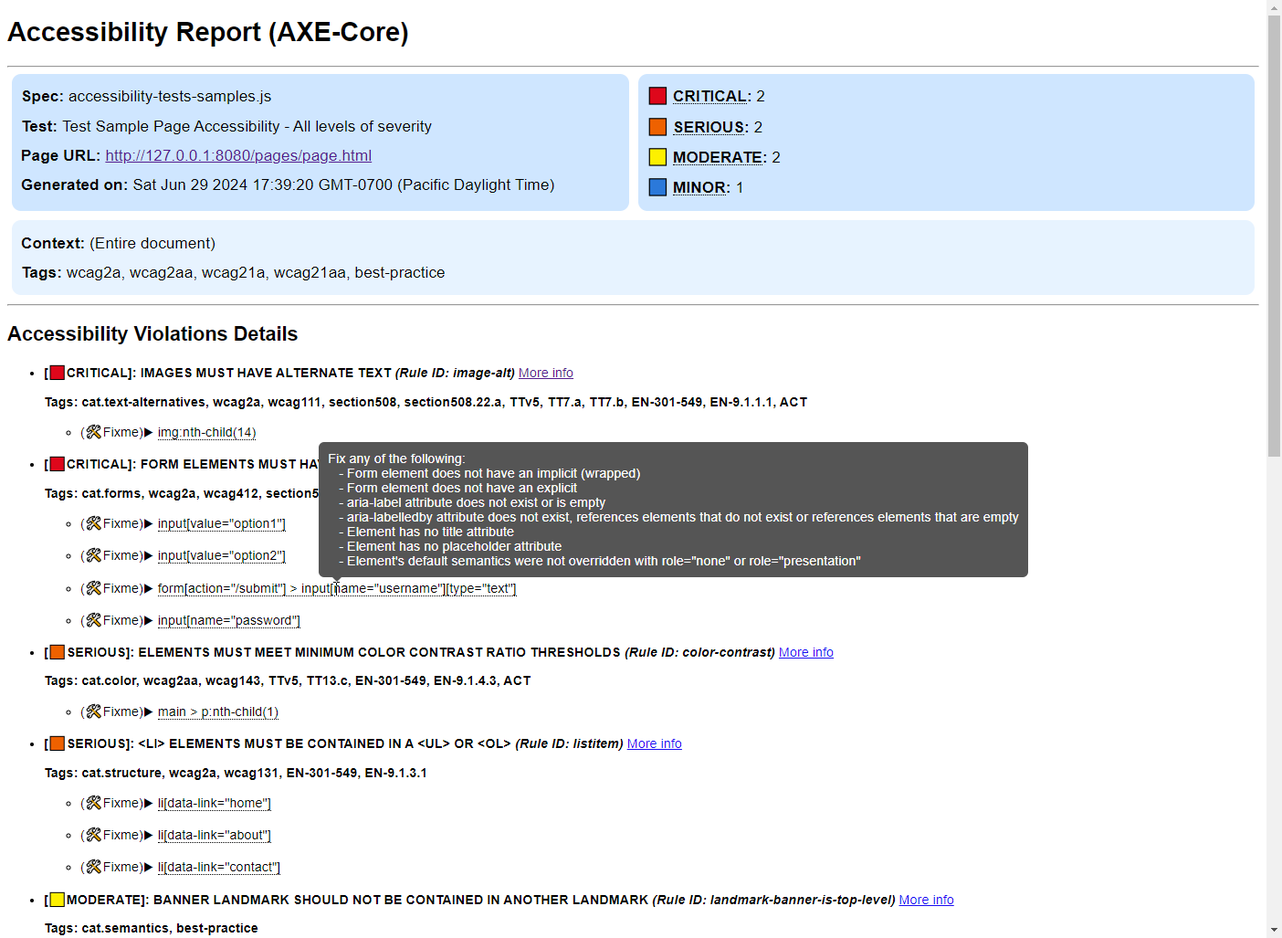
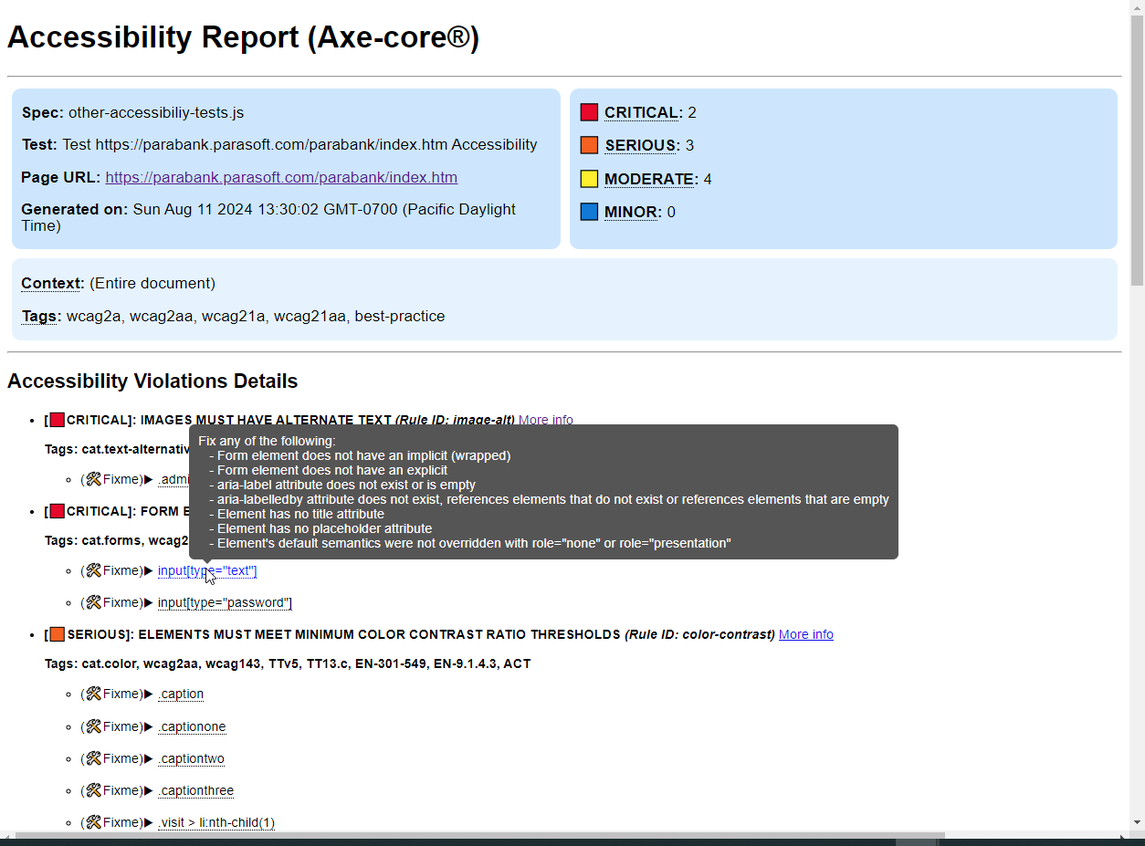
Fix issue accessibilityFolder and axe-core trademark
- Fix issue with `accessibilityFolder` cofiguration parameter when missing char `/` at the end
- Add axe-core® to the sorce code and documentation to be compliant with Deque trademark
- Created `.gitignore`

diff --git a/src/accessibility-commands.js b/src/accessibility-commands.js
@@ -23,12 +23,12 @@ const defaultOptions = {
  * For more details regarding parameters and options refer to https://www.deque.com/axe/core-documentation/api-documentation/, https://github.com/dequelabs/axe-core and https://www.npmjs.com/package/cypress-axe.
  * @public
  * 
- * @param {string | Element | NodeList | Object} [context] - (optional) AXE-CORE plugin parameter - Defines the scope of the analysis - the part of the DOM that you would like to analyze. This will typically be a CSS Selector, and DOM Element such as returned by document.getElementById("content"), a NodeList such as returned by document.querySelectorAll, or an Object. By default the analysis will be done for the full document.
- * @param {Object} [context.exclude] - (optional) AXE-CORE plugin option - An object with exclude properties to specify elements that should not be tested. E.g. { exclude: ['button'] }.
- * @param {Object} [context.include] - (optional) AXE-CORE plugin option - An object with include properties to specify elements that should be tested. E.g. { include: ['button'] }.
- * @param {Object} [context.fromFrames] - (optional) AXE-CORE plugin option - An object with a fromFrames property to specify frames that should be tested.
- * @param {Object} [context.fromShadowDom] - (optional) AXE-CORE plugin option - An object with a fromShadowDom property to specify shadow DOM elements that should be tested.
- * @param {Object} [options] - (optional) AXE-CORE plugin parameter - Object with options to configure the accessibility check.
+ * @param {string | Element | NodeList | Object} [context] - (optional) Axe-core® plugin parameter - Defines the scope of the analysis - the part of the DOM that you would like to analyze. This will typically be a CSS Selector, and DOM Element such as returned by document.getElementById("content"), a NodeList such as returned by document.querySelectorAll, or an Object. By default the analysis will be done for the full document.
+ * @param {Object} [context.exclude] - (optional) Axe-core® plugin option - An object with exclude properties to specify elements that should not be tested. E.g. { exclude: ['button'] }.
+ * @param {Object} [context.include] - (optional) Axe-core® plugin option - An object with include properties to specify elements that should be tested. E.g. { include: ['button'] }.
+ * @param {Object} [context.fromFrames] - (optional) Axe-core® plugin option - An object with a fromFrames property to specify frames that should be tested.
+ * @param {Object} [context.fromShadowDom] - (optional) Axe-core® plugin option - An object with a fromShadowDom property to specify shadow DOM elements that should be tested.
+ * @param {Object} [options] - (optional) Axe-core® plugin parameter - Object with options to configure the accessibility check.
  * @param {boolean} [options.generateReport=true] - (optional) WICK-A11Y plugin option - Whether to generate a report for accessibility violations. By default true.
  * @param {object} [options.impactStyling] - (optional) WICK-A11Y plugin option - An object with an entry for each impact level you would like to override the plugin defaults ('critical', 'serious', 'moderate', 'minor'). Each impact level entry may have two properties: 'icon', which specifies the icon to use for that type of violation in the Cypress runner, and 'style', which specifies the CSS style to apply to the HTML element bounding box showing the violation on the page. The styles passed in this option will override the default ones used by the plugin.
  *        Default styles:
@@ -42,20 +42,20 @@ const defaultOptions = {
  * @param {string[]} [options.includedImpacts=['critical', 'serious']] - (optional) CYPRESS-AXE plugin option - Violations to include in the accessibility analysis. Map to impact levels in violations, where possible impact values are "minor", "moderate", "serious", or "critical". By default { includedImpacts: ['critical', 'serious'] }.
  * @param {integer} [options.retries=0] - (optional) CYPRESS-AXE plugin option - Number of times to retry the check if there are initial findings. By default 0.
  * @param {integer} [options.interval=1000] - (optional) CYPRESS-AXE plugin option - Number of milliseconds to wait between retries. By default 1000 (1 second)
- * @param {string[]} [options.runOnly=['wcag2a', 'wcag2aa', 'wcag21a', 'wcag21aa', 'best-practice']] - (optional) AXE-CORE plugin option - Limit which rules are executed, based on names or tags. By default { runOnly: ['wcag2a', 'wcag2aa', 'wcag21a', 'wcag21aa', 'best-practice'] }.
- * @param {Object} [options.rules] - (optional) AXE-CORE plugin option - Enable or disable rules using the enabled property. E.g. { rules: { 'color-contrast': { enabled: false }, 'valid-lang': { enabled: false } }}.
- * @param {string} [options.reporter] - (optional) AXE-CORE plugin option - Which reporter to use. E.g. { reporter: 'v2'}.
- * @param {string[]} [options.resultTypes] - (optional) AXE-CORE plugin option - Limit which result types are processed and aggregated. This can be useful for improving performance on very large or complicated pages when you are only interested in certain types of results. E.g. { resultTypes: ['violations', 'incomplete', 'inapplicable'] }.
- * @param {boolean} [options.selectors=true] - (optional) AXE-CORE plugin option - Return CSS selector for elements, optimized for readability. By default true.
- * @param {boolean} [options.ancestry=false] - (optional) AXE-CORE plugin option - Return CSS selector for elements, with all the element's ancestors. By default false.
- * @param {boolean} [options.xpath=false] - (optional) AXE-CORE plugin option - Return xpath selectors for elements. By default false.
- * @param {boolean} [options.absolutePaths=false] - (optional) AXE-CORE plugin option - Use absolute paths when creating element selectors. By default false.
- * @param {boolean} [options.iframes=true] - (optional) AXE-CORE plugin option - Tell axe to run inside iframes. By default true.
- * @param {boolean} [options.elementRef=false] - (optional) AXE-CORE plugin option - Return element references in addition to the target. By default false.
- * @param {number} [options.frameWaitTime=60000] - (optional) AXE-CORE plugin option - How long (in milliseconds) axe waits for a response from embedded frames before timing out. By default 60000 (60 seconds).
- * @param {boolean} [options.preload=true] - (optional) AXE-CORE option plugin - Any additional assets (eg: cssom) to preload before running rules. By default true.
- * @param {boolean} [options.performanceTimer=false] - (optional) AXE-CORE plugin option - Log rule performance metrics to the console. By default false.
- * @param {number} [options.pingWaitTime=500] - (optional) AXE-CORE option plugin - Time in milliseconds before axe-core considers a frame unresponsive. By default 500 (0.5 seconds).
+ * @param {string[]} [options.runOnly=['wcag2a', 'wcag2aa', 'wcag21a', 'wcag21aa', 'best-practice']] - (optional) Axe-core® plugin option - Limit which rules are executed, based on names or tags. By default { runOnly: ['wcag2a', 'wcag2aa', 'wcag21a', 'wcag21aa', 'best-practice'] }.
+ * @param {Object} [options.rules] - (optional) Axe-core® plugin option - Enable or disable rules using the enabled property. E.g. { rules: { 'color-contrast': { enabled: false }, 'valid-lang': { enabled: false } }}.
+ * @param {string} [options.reporter] - (optional) Axe-core® plugin option - Which reporter to use. E.g. { reporter: 'v2'}.
+ * @param {string[]} [options.resultTypes] - (optional) Axe-core® plugin option - Limit which result types are processed and aggregated. This can be useful for improving performance on very large or complicated pages when you are only interested in certain types of results. E.g. { resultTypes: ['violations', 'incomplete', 'inapplicable'] }.
+ * @param {boolean} [options.selectors=true] - (optional) Axe-core® plugin option - Return CSS selector for elements, optimized for readability. By default true.
+ * @param {boolean} [options.ancestry=false] - (optional) Axe-core® plugin option - Return CSS selector for elements, with all the element's ancestors. By default false.
+ * @param {boolean} [options.xpath=false] - (optional) Axe-core® plugin option - Return xpath selectors for elements. By default false.
+ * @param {boolean} [options.absolutePaths=false] - (optional) Axe-core® plugin option - Use absolute paths when creating element selectors. By default false.
+ * @param {boolean} [options.iframes=true] - (optional) Axe-core® plugin option - Tell axe to run inside iframes. By default true.
+ * @param {boolean} [options.elementRef=false] - (optional) Axe-core® plugin option - Return element references in addition to the target. By default false.
+ * @param {number} [options.frameWaitTime=60000] - (optional) Axe-core® plugin option - How long (in milliseconds) axe waits for a response from embedded frames before timing out. By default 60000 (60 seconds).
+ * @param {boolean} [options.preload=true] - (optional) Axe-core® option plugin - Any additional assets (eg: cssom) to preload before running rules. By default true.
+ * @param {boolean} [options.performanceTimer=false] - (optional) Axe-core® plugin option - Log rule performance metrics to the console. By default false.
+ * @param {number} [options.pingWaitTime=500] - (optional) Axe-core® option plugin - Time in milliseconds before axe-core® considers a frame unresponsive. By default 500 (0.5 seconds).
  * @returns {void}
  */
 const checkAccessibility = (context, options) => {

diff --git a/cypress/e2e/other-accessibiliy-tests.js b/cypress/e2e/other-accessibiliy-tests.js
@@ -7,6 +7,13 @@ import "../../src/accessibility-commands.js";
 describe('OTHER ACCESSIBILITY TESTS', { tags: ['@accessibility'] }, () => {
     // NOTE: AXE analysis can spend quite some time, so it is recommended to increase the default command timeout for such tests
 
+    it.only('Test https://parabank.parasoft.com/parabank/index.htm Accessibility ', {defaultCommandTimeout: 15000}, () => {
+        cy.visit('https://parabank.parasoft.com/parabank/index.htm')
+        cy.wait(2000) // Using cy.wait(TIME) is a very bad practice, but it is used for simplicity in this example
+
+        cy.checkAccessibility(null, { includedImpacts: ['critical', 'serious', 'moderate', 'minor'] })
+    });
+
     it('Test practicesoftwaretesting.com Accessibility ', {defaultCommandTimeout: 15000}, () => {
         cy.visit('https://practicesoftwaretesting.com/#/')
         cy.wait(2000) // Using cy.wait(TIME) is a very bad practice, but it is used for simplicity in this example
@@ -16,20 +23,6 @@ describe('OTHER ACCESSIBILITY TESTS', { tags: ['@accessibility'] }, () => {
     
     it('Test https://example.cypress.io/ Accessibility ', {defaultCommandTimeout: 15000}, () => {
         cy.visit('https://example.cypress.io/')
-        cy.wait(2000) // Using cy.wait(TIME) is a very bad practice, but it is used for simplicity in this example
-
-        cy.checkAccessibility(null, { includedImpacts: ['critical', 'serious', 'moderate', 'minor'] })
-    });
-
-    it.skip('Test http://ecommerce.test.k6.io/ Accessibility ', {defaultCommandTimeout: 15000}, () => {
-        cy.visit('http://ecommerce.test.k6.io/')
-        cy.wait(2000) // Using cy.wait(TIME) is a very bad practice, but it is used for simplicity in this example
-
-        cy.checkAccessibility(null, { includedImpacts: ['critical', 'serious', 'moderate', 'minor'] })
-    });
-
-    it('Test https://parabank.parasoft.com/parabank/index.htm Accessibility ', {defaultCommandTimeout: 15000}, () => {
-        cy.visit('https://parabank.parasoft.com/parabank/index.htm')
         cy.wait(2000) // Using cy.wait(TIME) is a very bad practice, but it is used for simplicity in this example
 
         cy.checkAccessibility(null, { includedImpacts: ['critical', 'serious', 'moderate', 'minor'] })
@@ -51,6 +44,13 @@ describe('OTHER ACCESSIBILITY TESTS', { tags: ['@accessibility'] }, () => {
 
     it('Test https://bstackdemo.com/ Accessibility ', {defaultCommandTimeout: 15000}, () => {
         cy.visit('https://bstackdemo.com/')
+        cy.wait(2000) // Using cy.wait(TIME) is a very bad practice, but it is used for simplicity in this example
+
+        cy.checkAccessibility(null, { includedImpacts: ['critical', 'serious', 'moderate', 'minor'] })
+    });
+
+    it.skip('Test http://ecommerce.test.k6.io/ Accessibility ', {defaultCommandTimeout: 15000}, () => {
+        cy.visit('http://ecommerce.test.k6.io/')
         cy.wait(2000) // Using cy.wait(TIME) is a very bad practice, but it is used for simplicity in this example
 
         cy.checkAccessibility(null, { includedImpacts: ['critical', 'serious', 'moderate', 'minor'] })

diff --git a/src/log-accessibility-violations.js b/src/log-accessibility-violations.js
@@ -63,7 +63,7 @@ export const logViolationsAndGenerateReport = (violations) => {
  * The default folder path for storing accessibility reports.
  * @type {string}
  */
-const defaultAccessibilityFolder =  'cypress/accessibility/'
+const defaultAccessibilityFolder =  'cypress/accessibility'
 
 /**
  * Array representing the priority levels of accessibility violations,
@@ -258,7 +258,7 @@ const recordViolations_Report = (violations) => {
             reportId = `${reportIdGlobal} (attempt ${attempt + 1})`
         }
 
-        const reportFolder = `${accessibilityFolder}${reportId}`
+        const reportFolder = `${accessibilityFolder}/${reportId}`
 
         // Generate the HTML report with the violations detected, including screenshot of the page with the elements vith violations highlighted in different colors based on severity
         cy.task('createFolderIfNotExist', `${reportFolder}`).then(() => {
@@ -347,7 +347,7 @@ const buildHtmlReportBody = (violations, { testSpec, testName, url, reportGenera
     <head>
         <meta charset="UTF-8">
         <meta name="viewport" content="width=device-width, initial-scale=1.0">
-        <title>Accessibility Report (AXE-Core)</title>
+        <title>Accessibility Report (Axe-core®)</title>
         <style>
             * {
                 box-sizing: border-box;
@@ -493,7 +493,7 @@ const buildHtmlReportBody = (violations, { testSpec, testName, url, reportGenera
     </head>
     <body>
         <div role="main">
-            <h1 class="header">Accessibility Report (AXE-Core)</h1>
+            <h1 class="header">Accessibility Report (Axe-core®)</h1>
             <hr/>
 
             <div class="row" role="region" aria-label="Main Summary">
@@ -575,7 +575,8 @@ const buildHtmlReportBody = (violations, { testSpec, testName, url, reportGenera
             </div>
             <hr/>
 
-            <p class="footer">🎓 As per the Axe-Core library: it covers around 55% of the accessibility assessments usually performed during manual ADA testing, without any false positives; it also only analyzes DOM elements that are visible in the browser viewport -  Powered by WICK-A11Y.</p>
+            <p class="footer">🎓 As per the axe-core® library: it can find on average 57% of WCAG issues automatically; it also only analyzes DOM elements that are visible in the browser viewport. Axe-core <https://github.com/dequelabs/axe-core> is a trademark of Deque
+Systems, Inc <https://www.deque.com/>. in the US and other countries.</p>
         </div>
     </body>
     </html>

diff --git a/README.md b/README.md
@@ -1,6 +1,6 @@
 # wick-a11y
 
-wick-a11y is a Cypress plugin designed for performing configurable accessibility tests using AXE. Leveraging both cypress-axe and axe-core, this plugin ensures your web applications meet accessibility standards by detecting violations and providing detailed reports.
+wick-a11y is a Cypress plugin designed for performing configurable accessibility tests using AXE. Leveraging both cypress-axe and axe-core®, this plugin ensures your web applications meet accessibility standards by detecting violations and providing detailed reports.
 
 With wick-a11y, you can easily incorporate accessibility checks into your End-to-End tests, logging detailed information in the Cypress log and generating HTML documents with screenshots of each violation for easier identification and resolution of accessibility issues.
 
@@ -9,7 +9,8 @@ With wick-a11y, you can easily incorporate accessibility checks into your End-to
 
 ## Main Features
 
-- **Comprehensive Accessibility Analysis**: Leverages AXE-CORE for thorough accessibility checks.
+- **Comprehensive Accessibility Analysis**: Leverages axe-core® for thorough accessibility checks. Axe-core® <https://github.com/dequelabs/axe-core> is a trademark of Deque
+Systems, Inc <https://www.deque.com/>. in the US and other countries.
   
 - **Cypress Command**: Use the custom command `cy.checkAccessibility()` to run checks smoothly.
 
@@ -29,7 +30,7 @@ With wick-a11y, you can easily incorporate accessibility checks into your End-to
 
 > **Before launching the accessibility analysis, ensure what you want to analyze is fully rendered on the page.**
 > 
-> **The plugin analyzes DOM elements that are visible in the browser viewport as per the axe-core plugin (it will not include hidden elements).**
+> **The plugin analyzes DOM elements that are visible in the browser viewport as per the axe-core® plugin (it will not include hidden elements).**
 
 
 ## Installation
@@ -42,7 +43,7 @@ npm install wick-a11y --save-dev
 ## Compatibility
 
 - Compatible with all versions of Cypress v12.0.0 and greater.
-- Relies on cypress-axe (≥ 1.5.0) and axe-core for accessibility analysis.
+- Relies on cypress-axe (≥ 1.5.0) and axe-core® for accessibility analysis.
 
 
 ## Configuration
@@ -73,13 +74,13 @@ module.exports = defineConfig({
 import 'wick-a11y';
 ```
 
-- ✳  Accessibility HTML reports will be generated in the folder **`cypress/accessibility/`** by default. This folder can be changed by including the configuration parameter **`accessibilityFolder`** in **`cypress.config.js`**.
+- ✳  Accessibility HTML reports will be generated in the folder **`cypress/accessibility`** by default. This folder can be changed by including the configuration parameter **`accessibilityFolder`** in **`cypress.config.js`**.
 
 ```javascript
 module.exports = defineConfig({
   // ... rest of the configuration
   
-  accessibilityFolder: 'cypress/your-accessibility-reports-folder/'
+  accessibilityFolder: 'cypress/your-accessibility-reports-folder'
 });
 ```
 
@@ -88,24 +89,24 @@ module.exports = defineConfig({
 
 ### cy.checkAccessibility(context, options)
 
-Cypress custom command to check the accessibility of a given context using Axe-core. Only considers DOM elements that are visible on the screen. For details on parameters and options, refer to [AXE-Core Documentation](https://www.deque.com/axe/core-documentation/api-documentation/), [Axe-Core GitHub](https://github.com/dequelabs/axe-core), and [cypress-axe NPM](https://www.npmjs.com/package/cypress-axe).
+Cypress custom command to check the accessibility of a given context using axe-core®. Only considers DOM elements that are visible on the screen. For details on parameters and options, refer to [Axe-core® Documentation](https://www.deque.com/axe/core-documentation/api-documentation/), [Axe-core® GitHub](https://github.com/dequelabs/axe-core), and [cypress-axe NPM](https://www.npmjs.com/package/cypress-axe).
 
 - **`context`**: (optional) Defines the scope of the analysis. Can be a CSS Selector, a DOM Element, or an Object.
   When **context** is an Object, it could have the properties:
   
-  - **`exclude`**: (optional) *From AXE-CORE* - Elements that should not be tested. Format: CSS Selector or Array of CSS selectors.
+  - **`exclude`**: (optional) *From axe-core®* - Elements that should not be tested. Format: CSS Selector or Array of CSS selectors.
   
     E.g.1 `'button'` equivalent to `['button']`.
     
     E.g.2 `'input, .container, [data-cy="submission"]'` equivalent to `['input', '.container', '[data-cy="submission"]']`.
 
-  - **`include`**: (optional) *From AXE-CORE* - Elements that should be tested. Format: CSS Selector or Array of CSS selectors.
+  - **`include`**: (optional) *From axe-core®* - Elements that should be tested. Format: CSS Selector or Array of CSS selectors.
   
     E.g. `'[data-cy="header"]'`
    
-  - **`fromFrames`**: (optional) *From AXE-CORE* - An object with a fromFrames property to specify frames that should be tested.
+  - **`fromFrames`**: (optional) *From axe-core®* - An object with a fromFrames property to specify frames that should be tested.
    
-  - **`fromShadowDom`**: (optional) *From AXE-CORE* - An object with a fromShadowDom property to specify shadow DOM elements that should be tested.
+  - **`fromShadowDom`**: (optional) *From axe-core®* - An object with a fromShadowDom property to specify shadow DOM elements that should be tested.
    
 - **`options`**: (optional) Object with options to configure the accessibility check.
   
@@ -141,7 +142,7 @@ Cypress custom command to check the accessibility of a given context using Axe-c
   
     Default: `1000`.
    
-  - **`runOnly`**: (optional) *From AXE-CORE* - List to specify which rules are executed.
+  - **`runOnly`**: (optional) *From axe-core®* - List to specify which rules are executed.
   
     Default: `['wcag2a', 'wcag2aa', 'wcag21a', 'wcag21aa', 'best-practice']`.
    
@@ -149,55 +150,55 @@ Cypress custom command to check the accessibility of a given context using Axe-c
     > 
     > For example, if you want to run WCAG 2.1AA and all the previous versions of that standard (WCAG 2.0A, WCAG 2.0AA, WCAG 2.1A), you need to list them explicitly. Otherwise, only the rules specific to WCAG 2.1AA will be executed.
    
-  - **`rules`**: (optional) *From AXE-CORE* - Enable or disable rules using the enabled property.
+  - **`rules`**: (optional) *From axe-core®* - Enable or disable rules using the enabled property.
 
     E.g. `{ 'color-contrast': { enabled: false }, 'valid-lang': { enabled: false } }`.
    
-  - **`reporter`**: (optional) *From AXE-CORE* - Which reporter to use.
+  - **`reporter`**: (optional) *From axe-core®* - Which reporter to use.
     
     E.g. `'v2'`.
    
-  - **`resultTypes`**: (optional) *From AXE-CORE* - Limit which result types are processed and aggregated. This can be useful for improving performance on very large or complicated pages when you are only interested in certain types of results.
+  - **`resultTypes`**: (optional) *From axe-core®* - Limit which result types are processed and aggregated. This can be useful for improving performance on very large or complicated pages when you are only interested in certain types of results.
     
     E.g. `['violations', 'incomplete', 'inapplicable']`.
    
-  - **`selectors`**: (optional) *From AXE-CORE* - Return CSS selector for elements, optimized for readability.
+  - **`selectors`**: (optional) *From axe-core®* - Return CSS selector for elements, optimized for readability.
   
     Default: `true`.
    
-  - **`ancestry`**: (optional) *From AXE-CORE* - Return CSS selector for elements, with all the element's ancestors.
+  - **`ancestry`**: (optional) *From axe-core®* - Return CSS selector for elements, with all the element's ancestors.
   
     Default: `false`.
    
-  - **`xpath`**: (optional) *From AXE-CORE* - Return xpath selectors for elements.
+  - **`xpath`**: (optional) *From axe-core®* - Return xpath selectors for elements.
   
     Default: `false`.
    
-  - **`absolutePaths`**: (optional) *From AXE-CORE* - Use absolute paths when creating element selectors.
+  - **`absolutePaths`**: (optional) *From axe-core®* - Use absolute paths when creating element selectors.
   
     Default: `false`.
    
-  - **`iframes`**: (optional) *From AXE-CORE* - Tell axe to run inside iframes.
+  - **`iframes`**: (optional) *From axe-core®* - Tell axe to run inside iframes.
   
     Default: `true`.
    
-  - **`elementRef`**: (optional) *From AXE-CORE* - Return element references in addition to the target.
+  - **`elementRef`**: (optional) *From axe-core®* - Return element references in addition to the target.
   
     Default: `false`.
    
-  - **`frameWaitTime`**: (optional) *From AXE-CORE* - How long (in milliseconds) axe waits for a response from embedded frames before timing out.
+  - **`frameWaitTime`**: (optional) *From axe-core®* - How long (in milliseconds) axe waits for a response from embedded frames before timing out.
   
     Default: `60000`.
    
-  - **`preload`**: (optional) *From AXE-CORE* - Any additional assets to preload before running rules.
+  - **`preload`**: (optional) *From axe-core®* - Any additional assets to preload before running rules.
   
     Default: `true`.
    
-  - **`performanceTimer`**: (optional) *From AXE-CORE* - Log rule performance metrics to the console.
+  - **`performanceTimer`**: (optional) *From axe-core®* - Log rule performance metrics to the console.
   
     Default: `false`.
    
-  - **`pingWaitTime`**: (optional) *From AXE-CORE* - Time in milliseconds before axe-core considers a frame unresponsive.
+  - **`pingWaitTime`**: (optional) *From axe-core®* - Time in milliseconds before axe-core® considers a frame unresponsive.
   
     Default: `500`.
 
@@ -239,7 +240,7 @@ In this basic usage example, the `cy.checkAccessibility()` function is called wi
 
 > ⚠ **Note:** Accessibility analysis can take some time, so it is recommended to increase the **`defaultCommandTimeout`** when running an accessibility test. You can configure this timeout either directly when defining the test or in your **`cypress.config.js`** file.
 >
-> **Also, before launching the accessibility analysis, ensure that what you want to analyze is fully rendered on the page. Only DOM elements that are visible in the browser viewport will be considered, as per the axe-core plugin (hidden elements will be ignored).**
+> **Also, before launching the accessibility analysis, ensure that what you want to analyze is fully rendered on the page. Only DOM elements that are visible in the browser viewport will be considered, as per the axe-core® plugin (hidden elements will be ignored).**
 
 ```javascript
 describe('Accessibility Test', () => {
@@ -336,7 +337,7 @@ When hovering over a specific DOM element with a violation on the page in the Cy
 
 ### HTML Report
 
-When the option **`generateReport`** is true (which is the default setting), an HTML report with all the accessibility violation details will be generated. By default, accessibility HTML reports are created in the `cypress/accessibility/` folder. You can customize this location by setting the `accessibilityFolder` parameter in your `cypress.config.js` configuration file.
+When the option **`generateReport`** is true (which is the default setting), an HTML report with all the accessibility violation details will be generated. By default, accessibility HTML reports are created in the `cypress/accessibility` folder. You can customize this location by setting the `accessibilityFolder` parameter in your `cypress.config.js` configuration file.
 
 For each test that checks accessibility using the `cy.checkAccessibility()` command, a directory will be created in the accessibility folder.
 
@@ -382,6 +383,12 @@ MIT License. See the [LICENSE](LICENSE) file for more details.
 
 
 ## Changelog
+
+### v1.1.2
+
+- Fix issue with `accessibilityFolder` cofiguration parameter when missing char `/` at the end
+- Add axe-core® to the sorce code and documentation to be compliant with Deque trademark
+- Created `.gitignore`
 
 ### v1.1.1
 
